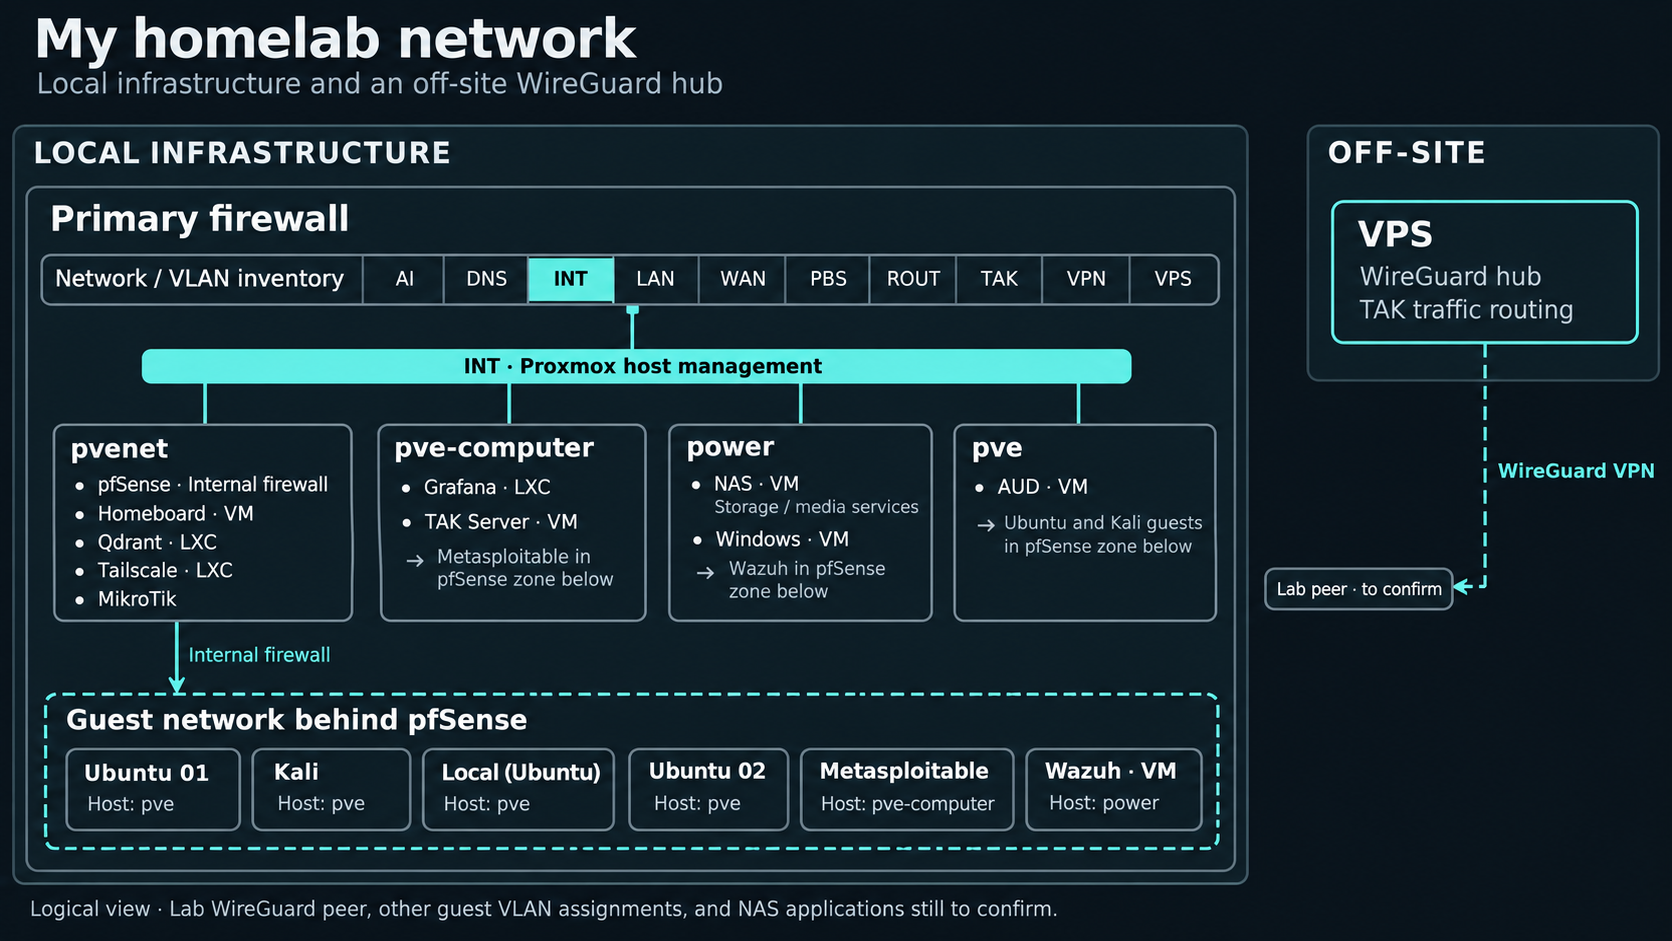
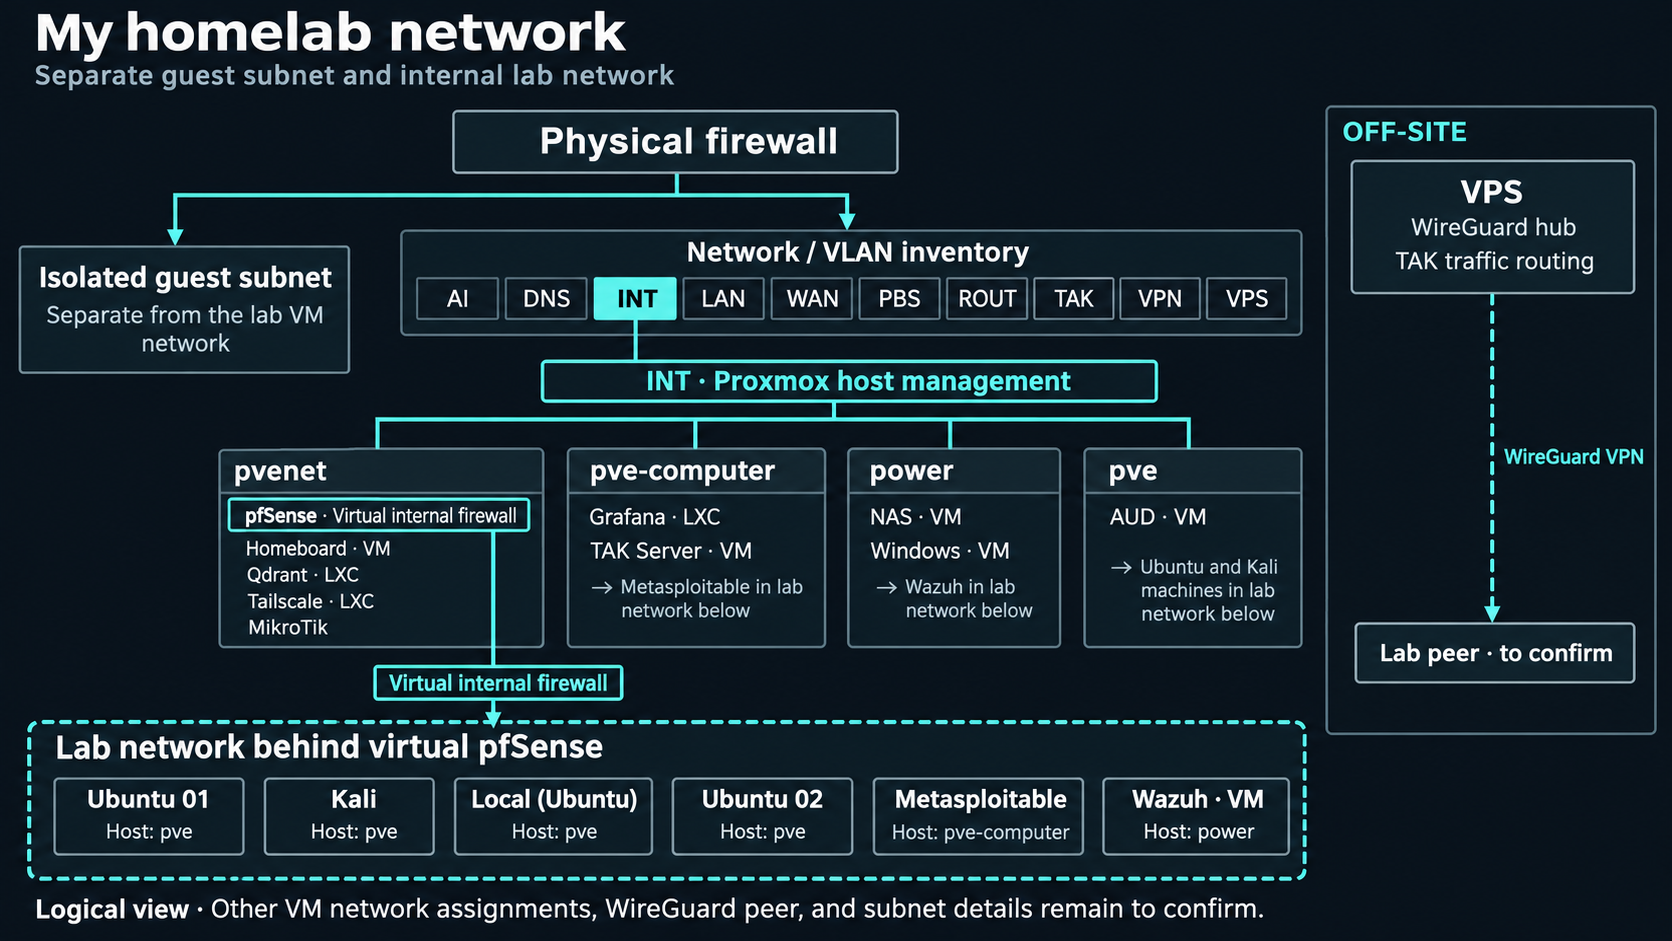
added correct diagram

Changed region(s): [[0.0, 0.0, 0.9952, 0.9862], [0.7775, 0.7705, 0.9641, 0.8013]]

diff --git a/index.html b/index.html
@@ -73,27 +73,27 @@
     <section class="scene network-scene" id="network" aria-labelledby="network-title" data-label="Current network and WireGuard hub">
       <div class="network-heading">
         <div><p class="eyebrow">08 / CURRENT ARCHITECTURE</p><h2 id="network-title">The lab, connected.</h2></div>
-        <p>Four nodes on INT. Six guests behind pfSense.<br>An off-site VPS serving as my WireGuard hub.</p>
+        <p>An isolated guest subnet behind the physical firewall.<br>Lab VMs behind virtual pfSense. An off-site WireGuard hub.</p>
       </div>
       <figure class="network-figure">
         <a class="network-image-link" href="assets/homelab-network.png" target="_blank" rel="noopener" aria-label="Open the full-size homelab network diagram in a new tab">
-          <img src="assets/homelab-network.png" alt="Logical homelab network with four Proxmox hosts on INT, six guest machines behind internal pfSense, and a separate off-site VPS configured as a WireGuard hub for TAK traffic. Detailed inventory follows below." width="3840" height="2160">
+          <img src="assets/homelab-network.png" alt="Logical homelab network: the physical firewall serves a separate isolated guest subnet and the local network. Four Proxmox hosts use INT. Six lab VMs sit behind the virtual pfSense internal firewall on pvenet. A separate off-site VPS is the WireGuard hub for TAK traffic. Detailed inventory follows below." width="1672" height="941">
         </a>
-        <figcaption><span><span class="network-key" aria-hidden="true"></span> Local infrastructure and off-site connectivity</span><a class="text-link" href="assets/homelab-network.png" target="_blank" rel="noopener">Open full-size diagram <span aria-hidden="true">↗</span><span class="sr-only"> in a new tab</span></a></figcaption>
+        <figcaption><span><span class="network-key" aria-hidden="true"></span> Separate guest subnet and internal lab network</span><a class="text-link" href="assets/homelab-network.png" target="_blank" rel="noopener">Open full-size diagram <span aria-hidden="true">↗</span><span class="sr-only"> in a new tab</span></a></figcaption>
       </figure>
       <details class="network-inventory">
         <summary>Read the network inventory</summary>
         <div class="inventory-content">
-          <p class="inventory-intro">INT carries the Proxmox node network. Hosting a guest on one of these nodes does not establish that guest’s VLAN assignment.</p>
+          <p class="inventory-intro">The isolated guest subnet sits behind the physical firewall and is separate from the lab VM network. Ubuntu 01, Ubuntu 02, Kali, Local, Metasploitable, and Wazuh sit behind the virtual pfSense internal firewall hosted on pvenet. INT carries the Proxmox node network; a VM’s host does not establish its VLAN assignment.</p>
           <div class="inventory-columns">
-            <div><h3>pvenet</h3><ul><li>pfSense: internal firewall</li><li>Homeboard: VM</li><li>Qdrant: LXC for local models</li><li>Tailscale: LXC</li><li>MikroTik</li></ul></div>
-            <div><h3>pve-computer</h3><ul><li>Grafana: LXC</li><li>Metasploitable: behind pfSense</li><li>TAK Server: VM</li></ul></div>
-            <div><h3>power</h3><ul><li>NAS: VM</li><li>Wazuh: VM, behind pfSense</li><li>Windows: VM</li></ul></div>
-            <div><h3>pve</h3><ul><li>Ubuntu 01: behind pfSense</li><li>Kali: behind pfSense</li><li>Local: Ubuntu, behind pfSense</li><li>AUD: VM</li><li>Ubuntu 02: behind pfSense</li></ul></div>
+            <div><h3>pvenet</h3><ul><li>pfSense: virtual internal firewall</li><li>Homeboard: VM</li><li>Qdrant: LXC for local models</li><li>Tailscale: LXC</li><li>MikroTik</li></ul></div>
+            <div><h3>pve-computer</h3><ul><li>Grafana: LXC</li><li>Metasploitable: behind virtual pfSense</li><li>TAK Server: VM</li></ul></div>
+            <div><h3>power</h3><ul><li>NAS: VM</li><li>Wazuh: VM, behind virtual pfSense</li><li>Windows: VM</li></ul></div>
+            <div><h3>pve</h3><ul><li>Ubuntu 01: behind virtual pfSense</li><li>Kali: behind virtual pfSense</li><li>Local: Ubuntu, behind virtual pfSense</li><li>AUD: VM</li><li>Ubuntu 02: behind virtual pfSense</li></ul></div>
           </div>
           <div class="remote-inventory"><h3>Off-site VPS</h3><p>Configured as the WireGuard hub. The off-site server also supports TAK traffic routing and participates in the backup setup. The lab-side WireGuard peer and exact traffic paths remain to be mapped.</p></div>
           <p><strong>Network names:</strong> AI, DNS, INT, LAN, WAN, PBS, ROUT, TAK, VPN, VPS. The network named VPS and the off-site VPS server are shown separately.</p>
-          <p class="inventory-note">Logical inventory based on the described setup. WAN’s role, other guest VLAN assignments, specific NAS applications, and the meaning of AUD remain unconfirmed. No IP addresses or unconfirmed routing paths are shown.</p>
+          <p class="inventory-note">Logical inventory based on the described setup. WAN’s role, other VM network assignments, specific NAS applications, and the meaning of AUD remain unconfirmed. No IP addresses or unconfirmed routing paths are shown.</p>
         </div>
       </details>
     </section>
